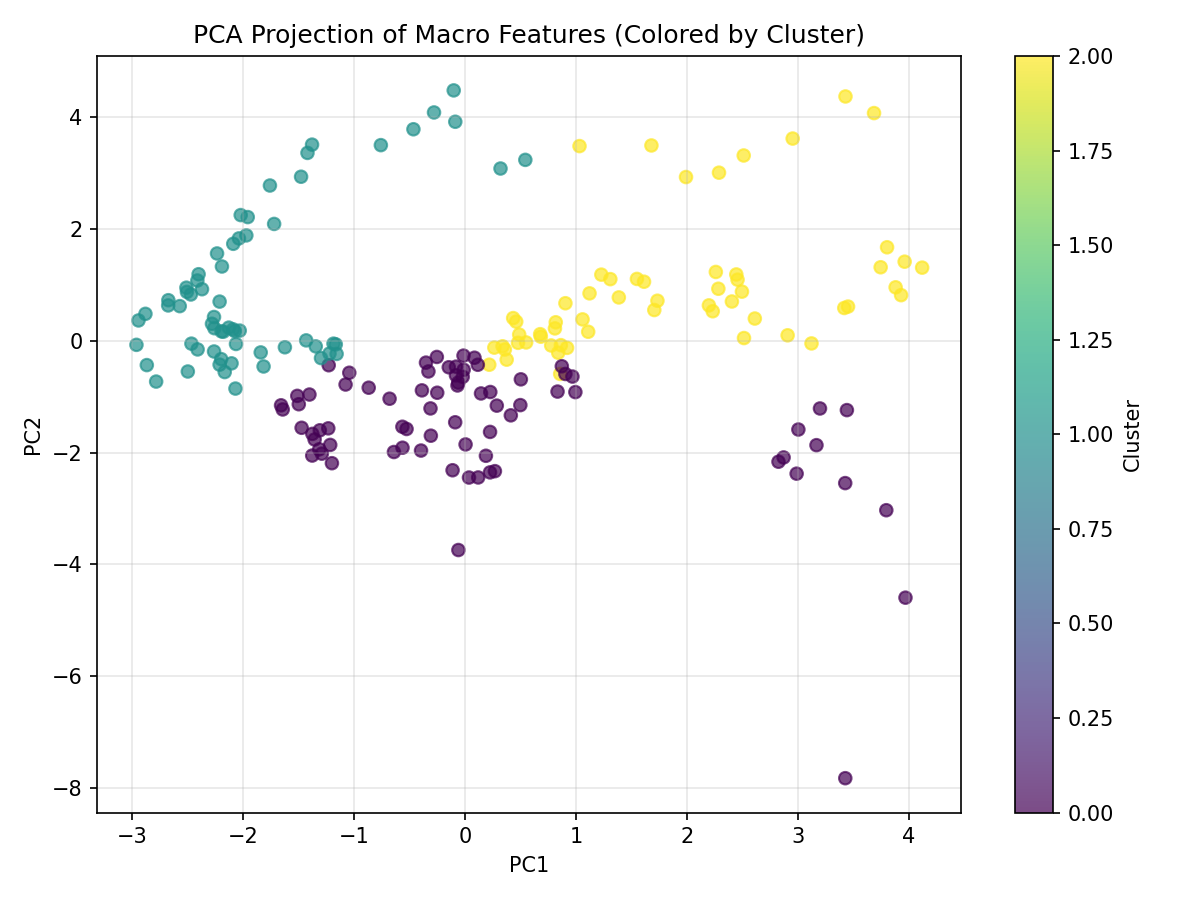
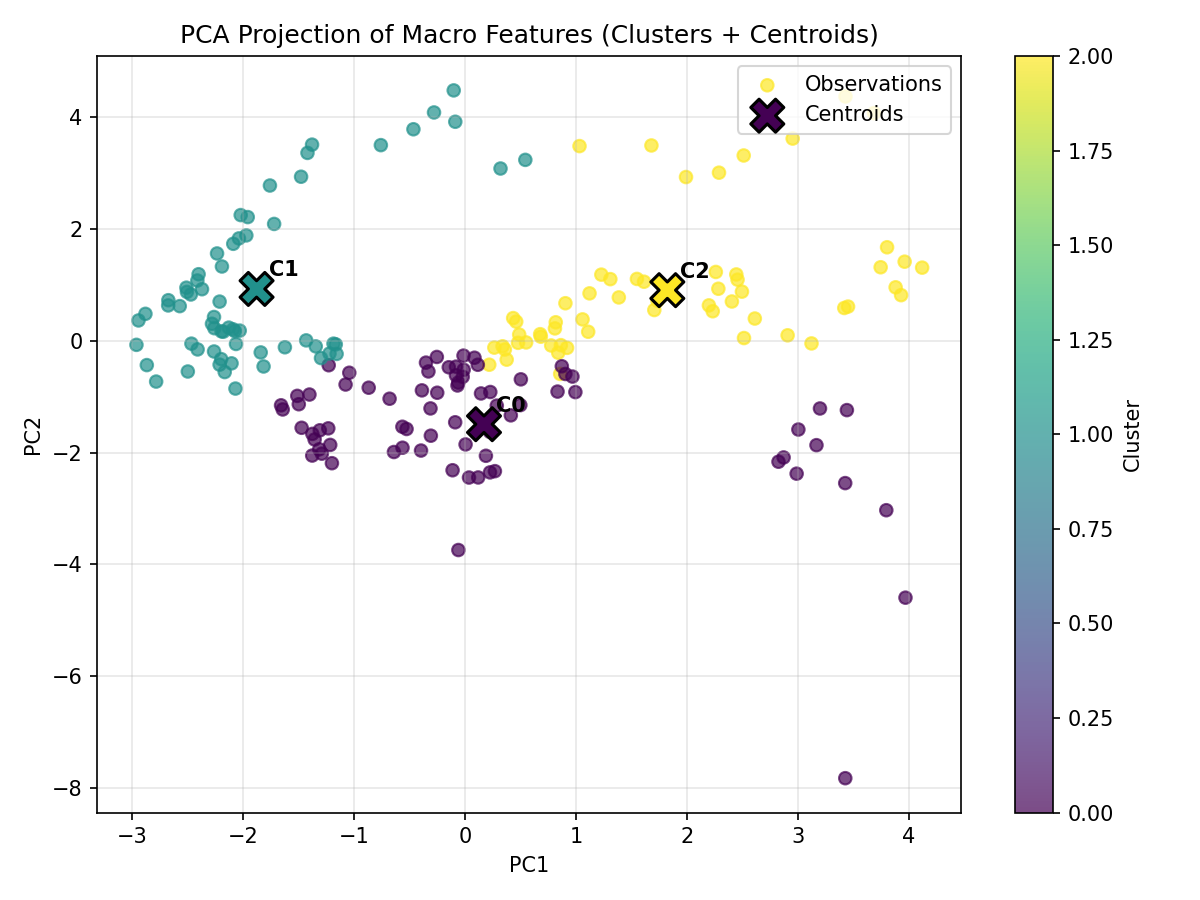
Pictures

diff --git a/regime_markowitz_portfolio_extended.py b/regime_markowitz_portfolio_extended.py
@@ -341,42 +341,7 @@ weights_ext.to_csv("weights_v3.csv")
 weights_base.to_csv("weights_base_v3.csv")
 print("\nSaved: backtest_results_v3.csv, weights_v3.csv, weights_base_v3.csv")
 
-from sklearn.decomposition import PCA
 
-print("\n================ PCA DIAGNOSTIC ================")
-
-# Use extended features (best model)
-X = data_ext[macro_features_extended].dropna()
-
-scaler = StandardScaler()
-X_scaled = scaler.fit_transform(X)
-
-# Fit PCA → reduce to 2D
-pca = PCA(n_components=2)
-X_pca = pca.fit_transform(X_scaled)
-
-# Fit KMeans again (same k=3)
-kmeans = KMeans(n_clusters=3, random_state=42)
-clusters = kmeans.fit_predict(X_scaled)
-
-# Plot PCA with clusters
-plt.figure(figsize=(8,6))
-scatter = plt.scatter(
-    X_pca[:,0],
-    X_pca[:,1],
-    c=clusters,
-    cmap="viridis",
-    alpha=0.7
-)
-
-plt.title("PCA Projection of Macro Features (Colored by Cluster)")
-plt.xlabel("PC1")
-plt.ylabel("PC2")
-plt.colorbar(scatter, label="Cluster")
-plt.grid(alpha=0.3)
-plt.tight_layout()
-plt.savefig("pca_clusters.png", dpi=150)
-plt.show()
 
 # ===================================================
 # DIAGNOSTICS: PCA + REGIME VISUALIZATION
@@ -395,6 +360,9 @@ df = df.dropna(subset=["predicted_cluster"])
 # ===================================================
 # PCA VISUALIZATION
 # ===================================================
+# ===================================================
+# PCA VISUALIZATION  (with centroids)
+# ===================================================
 X = df[macro_features_extended].dropna()
 
 scaler = StandardScaler()
@@ -406,19 +374,49 @@ X_pca = pca.fit_transform(X_scaled)
 kmeans = KMeans(n_clusters=3, random_state=42)
 clusters = kmeans.fit_predict(X_scaled)
 
-plt.figure(figsize=(8,6))
+# Project centroids into PCA space
+centroids_pca = pca.transform(kmeans.cluster_centers_)
+
+plt.figure(figsize=(8, 6))
 scatter = plt.scatter(
-    X_pca[:,0],
-    X_pca[:,1],
+    X_pca[:, 0],
+    X_pca[:, 1],
     c=clusters,
     cmap="viridis",
-    alpha=0.7
+    alpha=0.7,
+    label="Observations"
 )
 
-plt.title("PCA Projection of Macro Features (Clusters)")
+# Plot centroids
+plt.scatter(
+    centroids_pca[:, 0],
+    centroids_pca[:, 1],
+    c=range(3),
+    cmap="viridis",
+    marker="X",
+    s=250,
+    edgecolors="black",
+    linewidths=1.5,
+    zorder=5,
+    label="Centroids"
+)
+
+# Annotate each centroid with its cluster number
+for i, (cx, cy) in enumerate(centroids_pca):
+    plt.annotate(
+        f"C{i}",
+        xy=(cx, cy),
+        xytext=(6, 6),
+        textcoords="offset points",
+        fontsize=10,
+        fontweight="bold"
+    )
+
+plt.title("PCA Projection of Macro Features (Clusters + Centroids)")
 plt.xlabel("PC1")
 plt.ylabel("PC2")
 plt.colorbar(scatter, label="Cluster")
+plt.legend(loc="upper right")
 plt.grid(alpha=0.3)
 plt.tight_layout()
 plt.savefig("pca_clusters.png", dpi=150)
@@ -440,7 +438,7 @@ for c in sorted(df["predicted_cluster"].unique()):
     mask = df["predicted_cluster"] == c
     plt.scatter(
         df.index[mask],
-        df["SP500_raw"][mask],
+        df["SP500"][mask],
         label=f"Cluster {int(c)}",
         s=12,
         alpha=0.6
